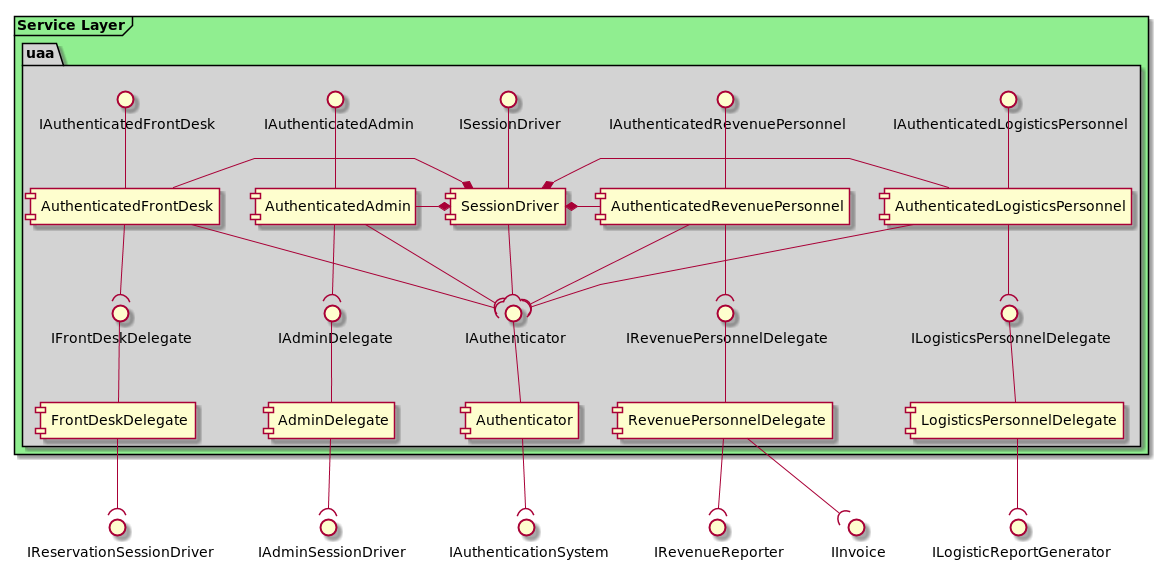
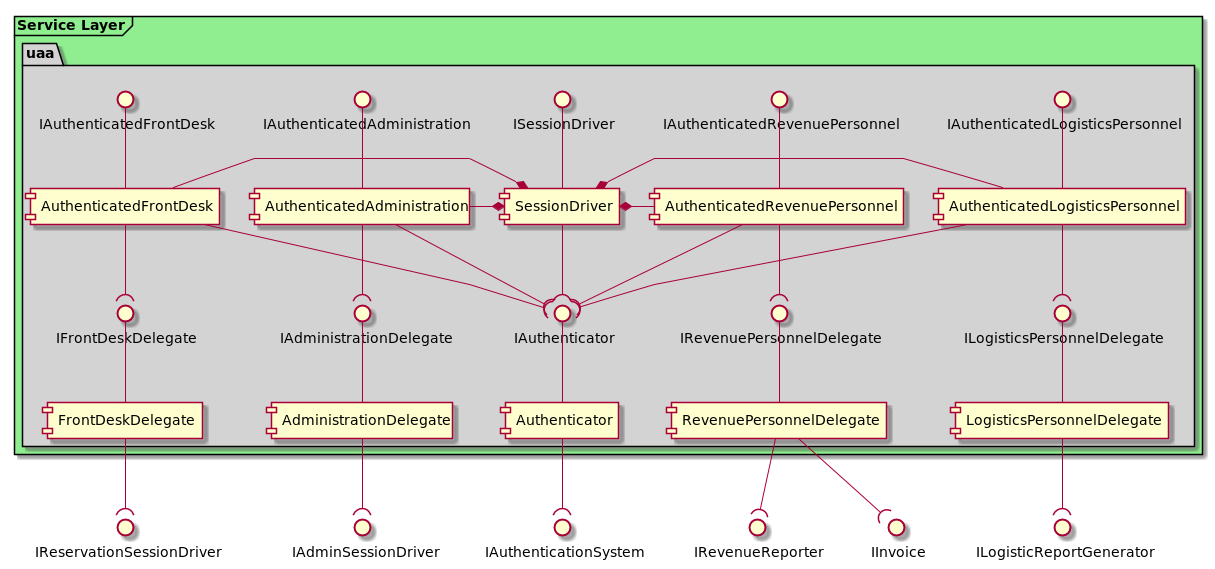
[uml] Renamed uaa's 'Admin..' components to 'Administration..' for clarity; [uaa] Refactored "Admin" names into "Administration".

diff --git a/services/src/main/java/bbk_beam/mtRooms/uaa/SessionDriver.java b/services/src/main/java/bbk_beam/mtRooms/uaa/SessionDriver.java
@@ -31,20 +31,20 @@ public class SessionDriver implements ISessionDriver {
 
     private DbSystemBootstrap dbSystemBootstrap;
     private Authenticator authenticator;
-    private IAuthenticatedAdmin authenticated_admin;
+    private IAuthenticatedAdministration authenticated_admin;
     private IAuthenticatedFrontDesk authenticated_front_desk;
     private IAuthenticatedLogisticsPersonnel authenticated_logistics_personnel;
     private IAuthenticatedRevenuePersonnel authenticated_revenue_personnel;
 
     /**
-     * Creates an IAuthenticatedAdmin implementation instance + dependency chain
+     * Creates an IAuthenticatedAdministration implementation instance + dependency chain
      *
-     * @return IAuthenticatedAdmin implementation  instance
+     * @return IAuthenticatedAdministration implementation  instance
      * @throws FailedSessionSpooling when a problem occurred during spooling
      */
-    private IAuthenticatedAdmin createAuthenticatedAdmin() throws FailedSessionSpooling {
+    private IAuthenticatedAdministration createAuthenticatedAdmin() throws FailedSessionSpooling {
         try {
-            log.log("Creating [AuthenticatedAdmin] instance...");
+            log.log("Creating [AuthenticatedAdministration] instance...");
             IAuthenticationSystem authenticationSystem = new UserAccountChecker(
                     this.dbSystemBootstrap.getUserAccDbAccess()
             );
@@ -54,11 +54,11 @@ public class SessionDriver implements ISessionDriver {
                     authenticationSystem
             );
             this.authenticator = new Authenticator(authenticationSystem);
-            return new AuthenticatedAdmin(
-                    new AdminDelegate(adminSession)
+            return new AuthenticatedAdministration(
+                    new AdministrationDelegate(adminSession)
             );
         } catch (DbBootstrapException e) {
-            throw new FailedSessionSpooling("Could not spool AuthenticatedAdmin dependency chain.", e);
+            throw new FailedSessionSpooling("Could not spool AuthenticatedAdministration dependency chain.", e);
         }
 
     }
@@ -203,7 +203,7 @@ public class SessionDriver implements ISessionDriver {
     }
 
     @Override
-    public IAuthenticatedAdmin getAdminInstance(Token session_token) throws SessionInactive, AuthenticationFailureException {
+    public IAuthenticatedAdministration getAdminInstance(Token session_token) throws SessionInactive, AuthenticationFailureException {
         if (!this.instantiated_flag)
             throw new SessionInactive("Session is inactive. It needs to be initialised.");
         if (!this.authenticator.isLoggedIn(session_token))

diff --git a/services/src/main/java/bbk_beam/mtRooms/uaa/ISessionDriver.java b/services/src/main/java/bbk_beam/mtRooms/uaa/ISessionDriver.java
@@ -37,14 +37,14 @@ public interface ISessionDriver {
     public IAuthenticatedFrontDesk getFrontDeskInstance(Token session_token) throws SessionInactive, AuthenticationFailureException;
 
     /**
-     * Gets the IAuthenticatedAdmin instance
+     * Gets the IAuthenticatedAdministration instance
      *
      * @param session_token Session token
-     * @return IAuthenticatedAdmin implementation instance
+     * @return IAuthenticatedAdministration implementation instance
      * @throws SessionInactive                when the SessionDriver has not been initialised
      * @throws AuthenticationFailureException when the token has not got access right to the resource
      */
-    public IAuthenticatedAdmin getAdminInstance(Token session_token) throws SessionInactive, AuthenticationFailureException;
+    public IAuthenticatedAdministration getAdminInstance(Token session_token) throws SessionInactive, AuthenticationFailureException;
 
     /**
      * Gets the IAuthenticatedRevenuePersonnel instance

diff --git a/services/src/main/java/bbk_beam/mtRooms/uaa/AuthenticatedAdministration.java b/services/src/main/java/bbk_beam/mtRooms/uaa/AuthenticatedAdministration.java
@@ -9,15 +9,15 @@ import bbk_beam.mtRooms.db.exception.SessionInvalidException;
 import bbk_beam.mtRooms.db.session.SessionType;
 import eadjlib.datastructure.ObjectTable;
 
-public class AuthenticatedAdmin implements IAuthenticatedAdmin {
-    private AdminDelegate delegate;
+public class AuthenticatedAdministration implements IAuthenticatedAdministration {
+    private AdministrationDelegate delegate;
 
     /**
      * Constructor
      *
-     * @param delegate AdminDelegate instance
+     * @param delegate AdministrationDelegate instance
      */
-    public AuthenticatedAdmin(AdminDelegate delegate) {
+    public AuthenticatedAdministration(AdministrationDelegate delegate) {
         this.delegate = delegate;
     }
 

diff --git a/services/src/main/java/bbk_beam/mtRooms/uaa/AdministrationDelegate.java b/services/src/main/java/bbk_beam/mtRooms/uaa/AdministrationDelegate.java
@@ -10,7 +10,7 @@ import bbk_beam.mtRooms.db.exception.SessionInvalidException;
 import bbk_beam.mtRooms.db.session.SessionType;
 import eadjlib.datastructure.ObjectTable;
 
-public class AdminDelegate implements IAdminSession {
+public class AdministrationDelegate implements IAdminSession {
     private IAdminSession admin_session;
 
     /**
@@ -18,7 +18,7 @@ public class AdminDelegate implements IAdminSession {
      *
      * @param admin_session IAdminSession instance
      */
-    AdminDelegate(IAdminSession admin_session) {
+    AdministrationDelegate(IAdminSession admin_session) {
         this.admin_session = admin_session;
     }
 

diff --git a/services/src/main/java/bbk_beam/mtRooms/uaa/IAuthenticatedAdministration.java b/services/src/main/java/bbk_beam/mtRooms/uaa/IAuthenticatedAdministration.java
@@ -9,7 +9,7 @@ import bbk_beam.mtRooms.db.exception.SessionInvalidException;
 import bbk_beam.mtRooms.db.session.SessionType;
 import eadjlib.datastructure.ObjectTable;
 
-public interface IAuthenticatedAdmin {
+public interface IAuthenticatedAdministration {
     /**
      * Creates a new account
      *
